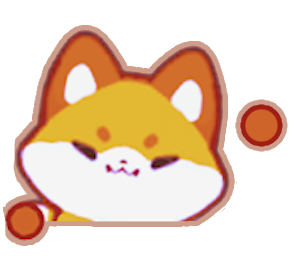
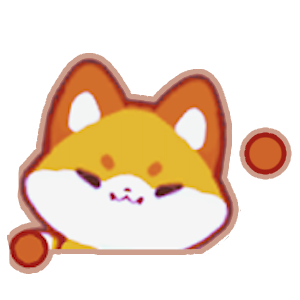
size consistency

diff --git a/src/Pages/PageWorkMobile.js b/src/Pages/PageWorkMobile.js
@@ -74,7 +74,7 @@ class PageWorkMobile extends Component {
                 <div className="imageContainer cuteMobileContainer">
                   <img
                     src={cutehangingRight}
-                    className="cuteHeaderMobile2 cutehangingRight"
+                    className="cuteHeaderMobile cutehangingRight"
                   ></img>
                 </div>
               </Grid>

diff --git a/src/Pages/PageCozyMobile.js b/src/Pages/PageCozyMobile.js
@@ -65,7 +65,7 @@ class PageCozyCafe extends Component {
                 <div className="imageContainer cuteMobileContainer">
                   <img
                     src={cutehangingRight}
-                    className="cuteHeaderMobile2 cutehangingRight"
+                    className="cuteHeaderMobile cutehangingRight"
                   ></img>
                 </div>
               </Grid>

diff --git a/src/index.css b/src/index.css
@@ -830,15 +830,14 @@ labelBigText {
 
 .cutehangingLeft {
   position: relative;
-  top: 7%;
-  height:auto;
+  top: 10%;
   overflow: hidden;
 }
 
 .cutehangingRight {
   position: relative;
-  top: 11%;
-  left: -20%;
+  top: 8%;
+  left: -5%;
 }
 
 
